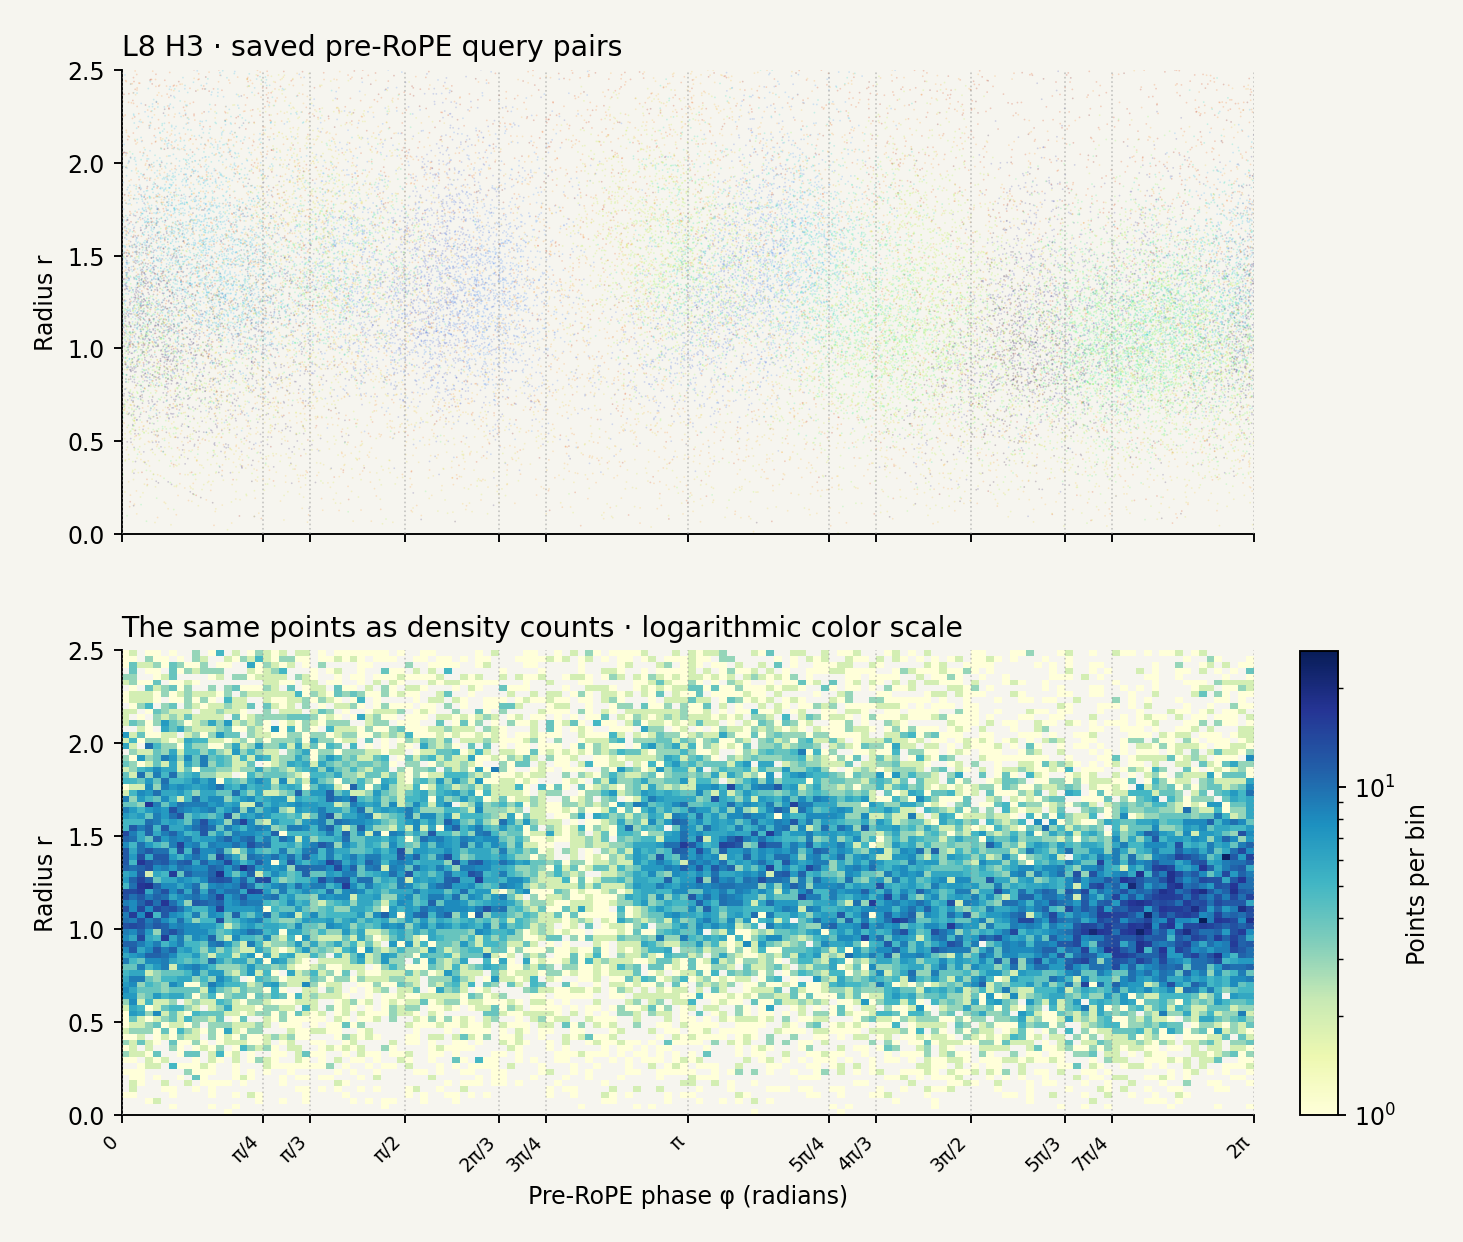
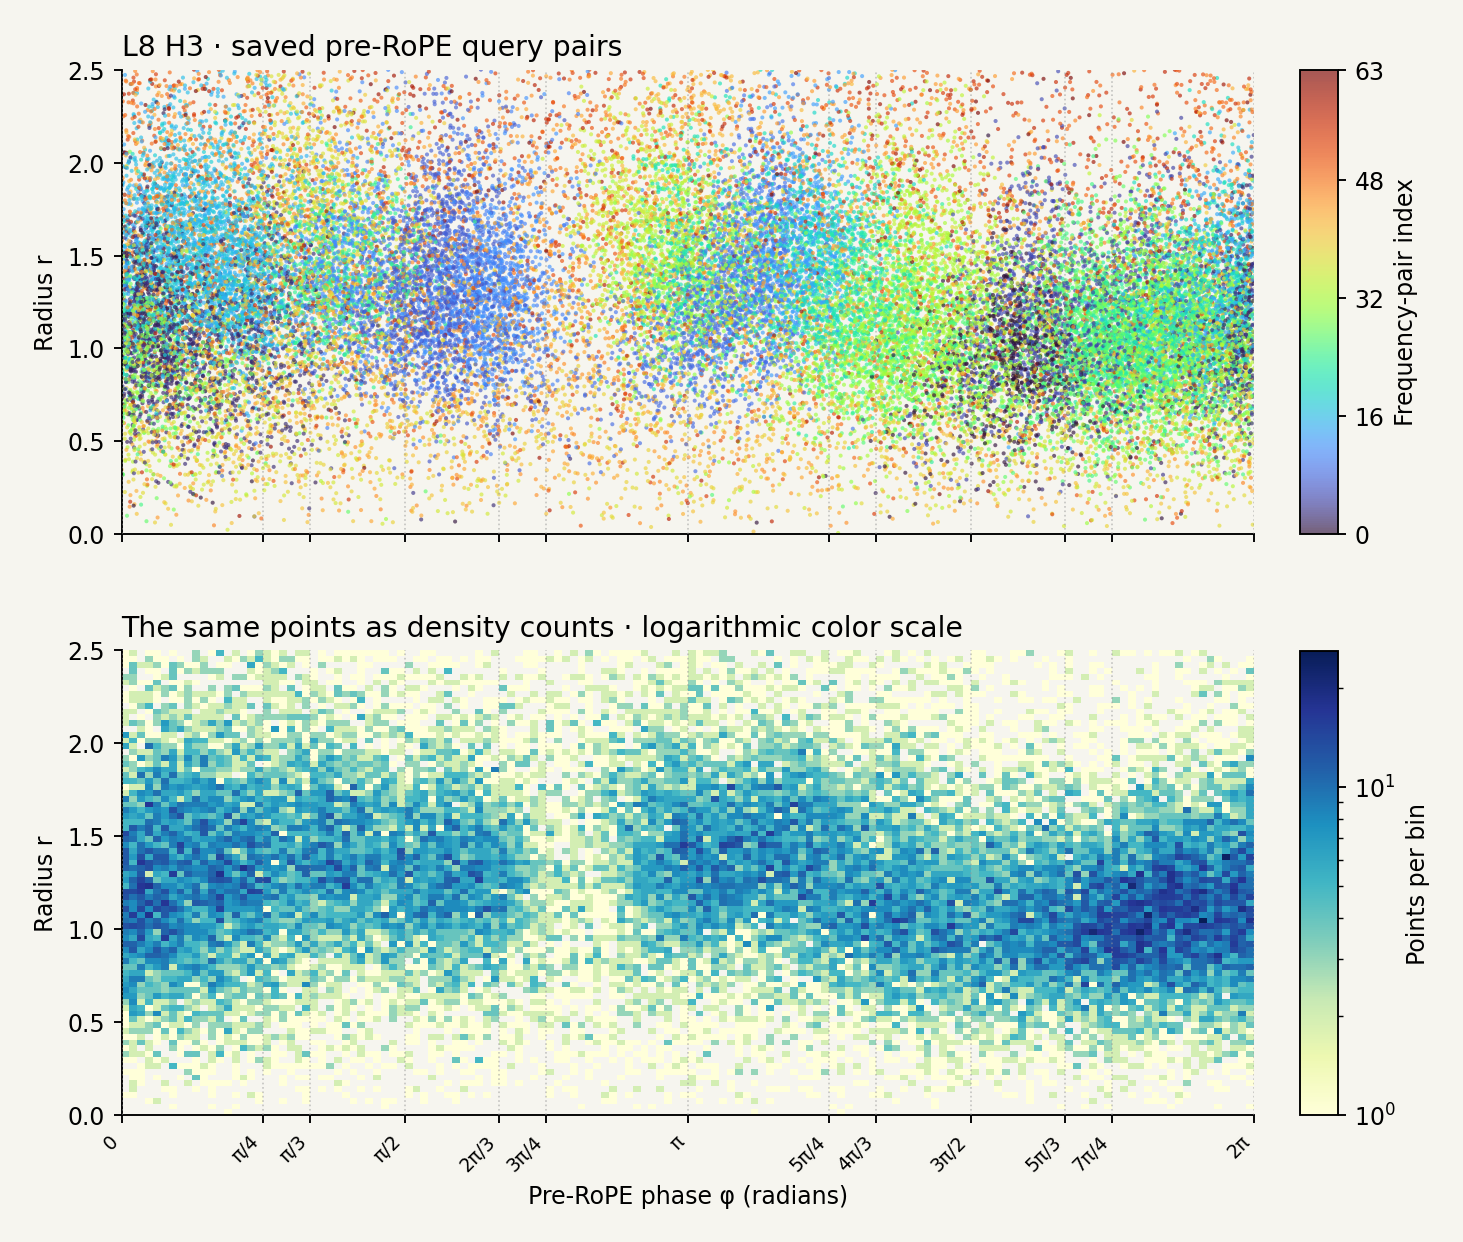
Enlarge L8 H3 scatter points and add frequency-pair color scale

Changed region(s): [[0.0615, 0.0306, 0.9535, 0.4283], [0.9535, 0.153, 0.9843, 0.3366]]

diff --git a/index.html b/index.html
@@ -177,7 +177,7 @@ Return the label for red round.</code></pre>
 
     <h3>There is structure inside the dense region</h3>
     <p>Zooming into the low-r region, the phase distribution does not look like featureless noise. There are ridges, valleys, and wave-like changes in density as the angle varies. Query head L8 H3 is one example.</p>
-    <figure><img src="figures/analysis/low-r-L8-H3.png" width="1530" height="1275" loading="lazy" alt="L8 H3 pre-RoPE query phase versus radius below 2.5, shown as individual colored points and a logarithmic density map, with guides at common fractions of pi."><figcaption>Zero-based layer 8, query head 3. The low-r view contains 38,649 of 49,152 saved points (78.6%). Above: individual points, colored by pair index. Below: the same points counted into 144 phase × 80 radius bins, with logarithmic color. Nothing is fitted to create the ridges. The gray lines are reference angles, not fitted peak locations.</figcaption></figure>
+    <figure><img src="figures/analysis/low-r-L8-H3.png?v=larger-points-1" width="1530" height="1275" loading="lazy" alt="L8 H3 pre-RoPE query phase versus radius below 2.5, shown as individual colored points and a logarithmic density map, with guides at common fractions of pi."><figcaption>Zero-based layer 8, query head 3. The low-r view contains 38,649 of 49,152 saved points (78.6%). Above: individual points, colored by pair index. Below: the same points counted into 144 phase × 80 radius bins, with logarithmic color. Nothing is fitted to create the ridges. The gray lines are reference angles, not fitted peak locations.</figcaption></figure>
     <p>The guides at fractions of π make the angular structure easier to compare. Some bands run near those directions, but their shapes and positions vary with radius and pair. This is a visual observation, <strong>not evidence that every head locks its phases to exact fractions of π</strong>. The density map pools all 64 pairs; it is not a trajectory of one vector rotating as a token moves.</p>
 
     <h3>Could we collapse nearby directions?</h3>

diff --git a/code/observations.py b/code/observations.py
@@ -55,7 +55,7 @@ def main():
  a,p=load('queries',8);r=a[3].ravel();phi=p[3].ravel();mask=r<2.5
  stats['low_r_example']={'kind':'queries','layer':8,'head':3,'points':int(r.size),'retained':int(mask.sum()),'fraction':float(mask.mean()),'r_window':[0,2.5]}
  fig,axs=plt.subplots(2,1,figsize=(9,7.5),sharex=True)
- pair=np.tile(np.arange(64),a.shape[1]);axs[0].scatter(phi[mask],r[mask],c=pair[mask],cmap='turbo',vmin=0,vmax=63,s=.55,alpha=.22,rasterized=True,linewidths=0)
+ pair=np.tile(np.arange(64),a.shape[1]);scatter=axs[0].scatter(phi[mask],r[mask],c=pair[mask],cmap='turbo',vmin=0,vmax=63,s=3,alpha=.65,rasterized=True,linewidths=0)
  axs[0].set_title('L8 H3 · saved pre-RoPE query pairs',loc='left')
  bins=[np.linspace(0,2*np.pi,145),np.linspace(0,2.5,81)]
  counts,xe,ye=np.histogram2d(phi[mask],r[mask],bins=bins)
@@ -63,6 +63,7 @@ def main():
  axs[1].set_title('The same points as density counts · logarithmic color scale',loc='left')
  fig.subplots_adjust(left=.10,right=.84,bottom=.12,top=.94,hspace=.25)
  cb=fig.colorbar(mesh,cax=fig.add_axes([.87,.12,.025,.364]));cb.set_label('Points per bin')
+ pair_cb=fig.colorbar(scatter,cax=fig.add_axes([.87,.576,.025,.364]),ticks=[0,16,32,48,63]);pair_cb.set_label('Frequency-pair index')
  for ax in axs:guides(ax);ax.set_ylim(0,2.5);ax.set_ylabel('Radius r')
  axs[-1].set_xlabel('Pre-RoPE phase φ (radians)')
  save(fig,'low-r-L8-H3.png')
